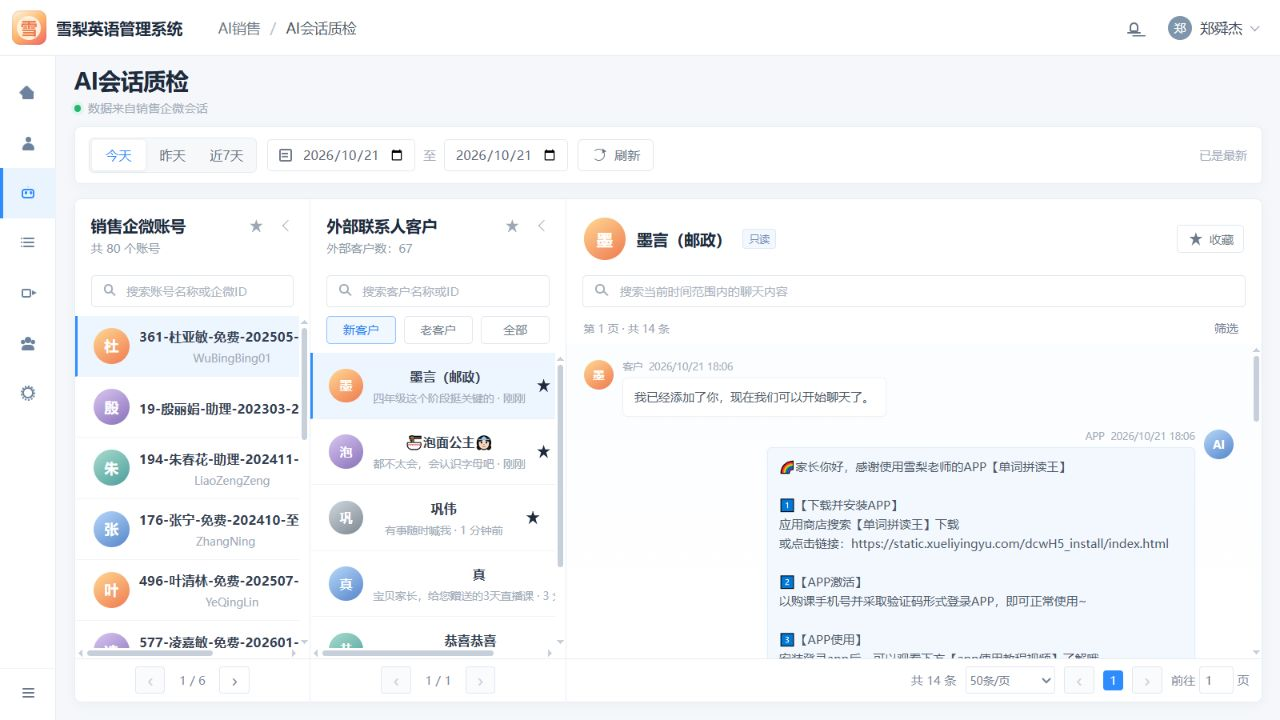
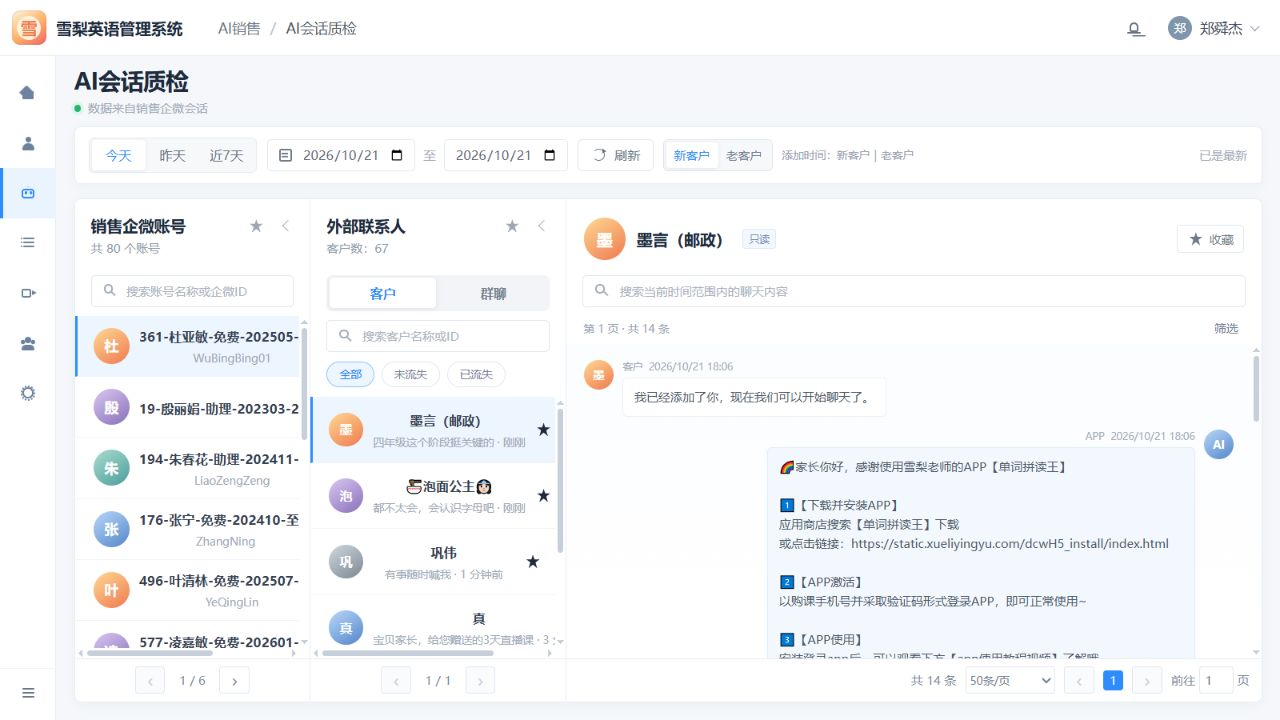
feat: add customer and group conversation filters

diff --git a/conversation-quality-prototype/app.js b/conversation-quality-prototype/app.js
@@ -17,21 +17,29 @@ const accounts = [
 ];
 
 const customers = [
-  { name: '墨言（邮政）', preview: '四年级这个阶段挺关键的', time: '刚刚', initial: '墨', tone: 'warm', type: 'new', id: 'C-1001', account: '361-杜亚敏-免费-202505-至今' },
-  { name: '🍜泡面公主👸🏻', preview: '都不太会，会认识字母吧', time: '刚刚', initial: '泡', tone: 'purple', type: 'new', id: 'C-1002', account: '361-杜亚敏-免费-202505-至今' },
-  { name: '巩伟', preview: '有事随时喊我', time: '1 分钟前', initial: '巩', tone: 'gray', type: 'new', id: 'C-1003', account: '19-殷丽娟-助理-202303-202305' },
-  { name: '真', preview: '宝贝家长，给您赠送的3天直播课', time: '3 分钟前', initial: '真', tone: 'blue', type: 'new', id: 'C-1004', account: '194-朱春花-助理-202411-至今' },
-  { name: '恭喜恭喜', preview: '看完还找不到，您截个图给我', time: '5 分钟前', initial: '恭', tone: 'mint', type: 'new', id: 'C-1005', account: '176-张宁-免费-202410-至今' },
-  { name: '袁兆腾', preview: '找到订单自行处理', time: '7 分钟前', initial: '袁', tone: 'gray', type: 'new', id: 'C-1006', account: '496-叶清林-免费-202507-至今' },
-  { name: 'baby', preview: '接下来的学习规划和雪梨老师的直播', time: '8 分钟前', initial: 'B', tone: 'warm', type: 'old', id: 'C-1007', account: '577-凌嘉敏-免费-202601-至今' },
-  { name: '🎀⃟何在王心ꦿ᭄᪲💞࿐', preview: '❤【第一课】规划！3-15岁英语进阶攻略…', time: '12 分钟前', initial: '何', tone: 'purple', type: 'old', id: 'C-1008', account: '495-胡仁龙-免费-202507-至今' },
-  { name: 'HLY', preview: '会生成计划', time: '12 分钟前', initial: 'H', tone: 'mint', type: 'old', id: 'C-1009', account: '79-廖增增-助理-202404-至今' },
-  { name: '崔の林栀鹿', preview: '👌', time: '15 分钟前', initial: '崔', tone: 'blue', type: 'old', id: 'C-1010', account: '576-李春雨-免费-202601-至今' },
-  { name: '丹', preview: '嗯嗯，没有实体教材哈‘', time: '16 分钟前', initial: '丹', tone: 'warm', type: 'old', id: 'C-1011', account: '206-徐磊-助理-202411-至今' },
-  { name: '巧霞', preview: '❤【第一课】规划！3-15岁英语进阶攻略…', time: '19 分钟前', initial: '巧', tone: 'purple', type: 'old', id: 'C-1012', account: '135-徐佳莹-免费-202409-至今' },
-  { name: '亚静', preview: '您先忙', time: '23 分钟前', initial: '亚', tone: 'gray', type: 'old', id: 'C-1013', account: '11-蔡刘伟-助理-202012-202102' },
-  { name: '大森', preview: '家长，给您赠送的3天直播课还没预约哈', time: '26 分钟前', initial: '森', tone: 'blue', type: 'old', id: 'C-1014', account: '578-孙培杰-助理-202404-至今' },
-  { name: '海风吹来', preview: '宝贝家长，给您赠送的3天直播课会讲方法', time: '29 分钟前', initial: '海', tone: 'mint', type: 'old', id: 'C-1015', account: '611-朱瑞祥-免费-202606-至今' },
+  { name: '墨言（邮政）', preview: '四年级这个阶段挺关键的', time: '刚刚', initial: '墨', tone: 'warm', age: 'new', status: 'active', id: 'C-1001', account: '361-杜亚敏-免费-202505-至今' },
+  { name: '🍜泡面公主👸🏻', preview: '都不太会，会认识字母吧', time: '刚刚', initial: '泡', tone: 'purple', age: 'new', status: 'active', id: 'C-1002', account: '361-杜亚敏-免费-202505-至今' },
+  { name: '巩伟', preview: '有事随时喊我', time: '1 分钟前', initial: '巩', tone: 'gray', age: 'new', status: 'active', id: 'C-1003', account: '19-殷丽娟-助理-202303-202305' },
+  { name: '真', preview: '宝贝家长，给您赠送的3天直播课', time: '3 分钟前', initial: '真', tone: 'blue', age: 'new', status: 'active', id: 'C-1004', account: '194-朱春花-助理-202411-至今' },
+  { name: '恭喜恭喜', preview: '看完还找不到，您截个图给我', time: '5 分钟前', initial: '恭', tone: 'mint', age: 'new', status: 'active', id: 'C-1005', account: '176-张宁-免费-202410-至今' },
+  { name: '袁兆腾', preview: '找到订单自行处理', time: '7 分钟前', initial: '袁', tone: 'gray', age: 'new', status: 'lost', id: 'C-1006', account: '496-叶清林-免费-202507-至今' },
+  { name: 'baby', preview: '接下来的学习规划和雪梨老师的直播', time: '8 分钟前', initial: 'B', tone: 'warm', age: 'old', status: 'active', id: 'C-1007', account: '577-凌嘉敏-免费-202601-至今' },
+  { name: '🎀⃟何在王心ꦿ᭄᪲💞࿐', preview: '❤【第一课】规划！3-15岁英语进阶攻略…', time: '12 分钟前', initial: '何', tone: 'purple', age: 'old', status: 'lost', id: 'C-1008', account: '495-胡仁龙-免费-202507-至今' },
+  { name: 'HLY', preview: '会生成计划', time: '12 分钟前', initial: 'H', tone: 'mint', age: 'old', status: 'active', id: 'C-1009', account: '79-廖增增-助理-202404-至今' },
+  { name: '崔の林栀鹿', preview: '👌', time: '15 分钟前', initial: '崔', tone: 'blue', age: 'old', status: 'active', id: 'C-1010', account: '576-李春雨-免费-202601-至今' },
+  { name: '丹', preview: '嗯嗯，没有实体教材哈', time: '16 分钟前', initial: '丹', tone: 'warm', age: 'old', status: 'active', id: 'C-1011', account: '206-徐磊-助理-202411-至今' },
+  { name: '巧霞', preview: '❤【第一课】规划！3-15岁英语进阶攻略…', time: '19 分钟前', initial: '巧', tone: 'purple', age: 'old', status: 'lost', id: 'C-1012', account: '135-徐佳莹-免费-202409-至今' },
+  { name: '亚静', preview: '您先忙', time: '23 分钟前', initial: '亚', tone: 'gray', age: 'old', status: 'active', id: 'C-1013', account: '11-蔡刘伟-助理-202012-202102' },
+  { name: '大森', preview: '家长，给您赠送的3天直播课还没预约哈', time: '26 分钟前', initial: '森', tone: 'blue', age: 'old', status: 'active', id: 'C-1014', account: '578-孙培杰-助理-202404-至今' },
+  { name: '海风吹来', preview: '宝贝家长，给您赠送的3天直播课会讲方法', time: '29 分钟前', initial: '海', tone: 'mint', age: 'old', status: 'lost', id: 'C-1015', account: '611-朱瑞祥-免费-202606-至今' },
+];
+
+const groups = [
+  { name: '四年级英语规划交流群', preview: '今晚直播课记得提前 10 分钟进入', time: '刚刚', initial: '群', tone: 'blue', status: 'active', id: 'G-2001' },
+  { name: '自然拼读学习打卡群', preview: '今日打卡任务已经发布', time: '2 分钟前', initial: '拼', tone: 'mint', status: 'active', id: 'G-2002' },
+  { name: '三天家长直播课 1027', preview: '课程资料已上传群文件', time: '8 分钟前', initial: '课', tone: 'warm', status: 'active', id: 'G-2003' },
+  { name: '单词拼读王体验群', preview: '感谢各位家长参与体验', time: '1 小时前', initial: '词', tone: 'purple', status: 'dissolved', id: 'G-2004' },
+  { name: '暑期英语启蒙训练营', preview: '本期训练营已结束', time: '3 天前', initial: '营', tone: 'gray', status: 'dissolved', id: 'G-2005' },
 ];
 
 const conversations = {
@@ -51,12 +59,20 @@ const conversations = {
     { role: 'customer', label: '客户', time: '2026/10/21 18:18', text: '4年级小学生' },
     { role: 'agent', label: 'AI', time: '2026/10/21 18:19', text: '四年级这个阶段挺关键的', score: '0.72' },
   ],
+  '四年级英语规划交流群': [
+    { role: 'customer', label: '群成员', time: '2026/10/21 18:01', text: '老师，今晚的直播还是七点开始吗？' },
+    { role: 'agent', label: 'AI', time: '2026/10/21 18:02', text: '是的，今晚七点准时开始，建议各位家长提前 10 分钟进入直播间～' },
+    { role: 'customer', label: '群成员', time: '2026/10/21 18:04', text: '好的，已经设置提醒了。' },
+    { role: 'agent', label: '群公告', time: '2026/10/21 18:05', text: '【今晚直播提醒】课程将在 19:00 开始，直播链接：https://xl.shirleyclass.com/s/demo' },
+  ],
 };
 
-let selectedCustomer = customers[0];
+let contactKind = 'customer';
+let contactStatus = 'all';
+let customerAge = 'new';
+let selectedContact = customers[0];
 let accountPage = 1;
 let customerPage = 1;
-let customerFilter = 'new';
 const accountPageTotal = 6;
 const customerPageSize = 6;
 
@@ -78,36 +94,76 @@ function renderAccounts() {
   $('#account-next').disabled = accountPage >= accountPageTotal;
 }
 
-function renderCustomers() {
+function getFilteredContacts() {
   const query = $('#customer-search').value.trim().toLowerCase();
-  const result = customers.filter((item) => (customerFilter === 'all' || item.type === customerFilter) && `${item.name}${item.preview}${item.id}`.toLowerCase().includes(query));
+  const source = contactKind === 'customer' ? customers : groups;
+  return source.filter((item) => {
+    const matchesKindFilter = contactKind === 'customer'
+      ? item.age === customerAge && (contactStatus === 'all' || item.status === contactStatus)
+      : contactStatus === 'all' || item.status === contactStatus;
+    return matchesKindFilter && `${item.name}${item.preview}${item.id}`.toLowerCase().includes(query);
+  });
+}
+
+function renderContactControls() {
+  const isCustomer = contactKind === 'customer';
+  $('#age-filter').classList.toggle('is-hidden', !isCustomer);
+  $('#contact-count').textContent = isCustomer ? '客户数：67' : '群聊数：12';
+  $('#customer-search').placeholder = isCustomer ? '搜索客户名称或ID' : '搜索群聊名称或ID';
+  document.querySelectorAll('.contact-kind-tab').forEach((button) => {
+    const active = button.dataset.kind === contactKind;
+    button.classList.toggle('active', active);
+    button.setAttribute('aria-selected', String(active));
+  });
+  const filters = isCustomer
+    ? [{ value: 'all', label: '全部' }, { value: 'active', label: '未流失' }, { value: 'lost', label: '已流失' }]
+    : [{ value: 'all', label: '全部' }, { value: 'dissolved', label: '已解散' }];
+  $('#contact-status-filters').setAttribute('aria-label', isCustomer ? '客户状态' : '群聊状态');
+  $('#contact-status-filters').innerHTML = filters.map((filter) => `<button class="contact-status-filter ${filter.value === contactStatus ? 'active' : ''}" role="tab" aria-selected="${filter.value === contactStatus}" data-status="${filter.value}">${filter.label}</button>`).join('');
+}
+
+function renderCustomers() {
+  const result = getFilteredContacts();
   const pageTotal = Math.max(1, Math.ceil(result.length / customerPageSize));
   if (customerPage > pageTotal) customerPage = pageTotal;
-  $('#customer-list').innerHTML = result.map((item) => `<button class="customer-item ${item.id === selectedCustomer.id ? 'active' : ''}" data-customer="${escapeHtml(item.id)}">${avatarMarkup(item)}<span class="item-copy"><span class="item-title">${escapeHtml(item.name)}</span><span class="item-subtitle">${escapeHtml(item.preview)} · ${escapeHtml(item.time)}</span></span><span class="item-star icon icon-star"></span></button>`).join('') || '<div class="empty-state">没有找到匹配客户</div>';
+  if (!result.some((item) => item.id === selectedContact.id) && result.length) selectedContact = result[0];
+  $('#customer-list').innerHTML = result.map((item) => {
+    const statusText = contactKind === 'group' && item.status === 'dissolved' ? ' · 已解散' : '';
+    return `<button class="customer-item ${item.id === selectedContact.id ? 'active' : ''}" data-contact="${escapeHtml(item.id)}">${avatarMarkup(item)}<span class="item-copy"><span class="item-title">${escapeHtml(item.name)}</span><span class="item-subtitle">${escapeHtml(item.preview)}${statusText} · ${escapeHtml(item.time)}</span></span><span class="item-star icon icon-star"></span></button>`;
+  }).join('') || `<div class="empty-state">没有找到匹配${contactKind === 'customer' ? '客户' : '群聊'}</div>`;
   $('#customer-page').textContent = `${customerPage} / ${pageTotal}`;
   $('#customer-prev').disabled = customerPage <= 1;
   $('#customer-next').disabled = customerPage >= pageTotal;
+  $('#customer-prev').setAttribute('aria-label', `上一页${contactKind === 'customer' ? '客户' : '群聊'}`);
+  $('#customer-next').setAttribute('aria-label', `下一页${contactKind === 'customer' ? '客户' : '群聊'}`);
 }
 
 function renderConversation() {
   const avatarNode = $('#conversation-avatar');
-  avatarNode.className = `avatar avatar-large ${selectedCustomer.tone}`;
-  avatarNode.textContent = selectedCustomer.initial;
-  $('#conversation-title').textContent = selectedCustomer.name;
+  avatarNode.className = `avatar avatar-large ${selectedContact.tone}`;
+  avatarNode.textContent = selectedContact.initial;
+  $('#conversation-title').textContent = selectedContact.name;
   const search = $('#message-search').value.trim().toLowerCase();
-  const source = conversations[selectedCustomer.name] || [
-    { role: 'customer', label: '客户', time: '2026/10/21 18:06', text: selectedCustomer.preview },
+  const source = conversations[selectedContact.name] || [
+    { role: 'customer', label: contactKind === 'customer' ? '客户' : '群成员', time: '2026/10/21 18:06', text: selectedContact.preview },
     { role: 'agent', label: 'AI', time: '2026/10/21 18:07', text: '家长好～我是接下来负责咱们孩子英语学习的班主任老师' },
     { role: 'agent', label: 'AI', time: '2026/10/21 18:08', text: '接下来的学习规划和雪梨老师的直播，都会根据孩子的情况安排～' },
   ];
   const result = source.filter((message) => message.text.toLowerCase().includes(search));
-  $('#messages').innerHTML = result.map((message) => `<article class="message-row ${message.role}">${avatarMarkup({ initial: message.role === 'customer' ? selectedCustomer.initial : 'AI', tone: message.role === 'customer' ? selectedCustomer.tone : 'blue' })}<div class="message-body"><div class="message-meta"><span>${escapeHtml(message.label)}</span><span>${escapeHtml(message.time)}</span></div><div class="message-bubble">${escapeHtml(message.text)}</div>${message.score ? `<span class="message-score">${escapeHtml(message.score)}</span>` : ''}</div></article>`).join('') || '<div class="empty-state">当前范围内没有匹配的聊天内容</div>';
+  $('#messages').innerHTML = result.map((message) => `<article class="message-row ${message.role}">${avatarMarkup({ initial: message.role === 'customer' ? selectedContact.initial : 'AI', tone: message.role === 'customer' ? selectedContact.tone : 'blue' })}<div class="message-body"><div class="message-meta"><span>${escapeHtml(message.label)}</span><span>${escapeHtml(message.time)}</span></div><div class="message-bubble">${escapeHtml(message.text)}</div>${message.score ? `<span class="message-score">${escapeHtml(message.score)}</span>` : ''}</div></article>`).join('') || '<div class="empty-state">当前范围内没有匹配的聊天内容</div>';
   $('#message-page-label').textContent = `第 1 页 · 共 ${source.length} 条`;
   $('#message-count').textContent = `共 ${source.length} 条`;
 }
 
-function selectCustomer(id) {
-  selectedCustomer = customers.find((item) => item.id === id) || selectedCustomer;
+function selectContact(id) {
+  const source = contactKind === 'customer' ? customers : groups;
+  selectedContact = source.find((item) => item.id === id) || selectedContact;
+  renderCustomers();
+  renderConversation();
+}
+
+function refreshContactView() {
+  renderContactControls();
   renderCustomers();
   renderConversation();
 }
@@ -126,15 +182,42 @@ document.addEventListener('click', (event) => {
     toast(`已切换至${rangeButton.textContent}`);
     return;
   }
-  const customerFilterButton = event.target.closest('.customer-filter');
-  if (customerFilterButton) {
-    customerFilter = customerFilterButton.dataset.filter;
-    document.querySelectorAll('.customer-filter').forEach((button) => button.classList.toggle('active', button === customerFilterButton));
+  const contactKindButton = event.target.closest('.contact-kind-tab');
+  if (contactKindButton) {
+    contactKind = contactKindButton.dataset.kind;
+    contactStatus = 'all';
+    customerPage = 1;
+    $('#customer-search').value = '';
+    selectedContact = (contactKind === 'customer' ? customers : groups)[0];
+    refreshContactView();
+    toast(`已切换至${contactKind === 'customer' ? '客户' : '群聊'}`);
+    return;
+  }
+  const ageFilterButton = event.target.closest('.age-filter-button');
+  if (ageFilterButton) {
+    customerAge = ageFilterButton.dataset.age;
+    customerPage = 1;
+    document.querySelectorAll('.age-filter-button').forEach((button) => {
+      const active = button === ageFilterButton;
+      button.classList.toggle('active', active);
+      button.setAttribute('aria-selected', String(active));
+    });
     renderCustomers();
+    renderConversation();
+    toast(`已筛选${ageFilterButton.textContent}`);
+    return;
+  }
+  const statusFilterButton = event.target.closest('.contact-status-filter');
+  if (statusFilterButton) {
+    contactStatus = statusFilterButton.dataset.status;
+    customerPage = 1;
+    renderContactControls();
+    renderCustomers();
+    renderConversation();
     return;
   }
   const customerButton = event.target.closest('.customer-item');
-  if (customerButton) { selectCustomer(customerButton.dataset.customer); return; }
+  if (customerButton) { selectContact(customerButton.dataset.contact); return; }
   const accountButton = event.target.closest('.account-item');
   if (accountButton) {
     document.querySelectorAll('.account-item').forEach((button) => button.classList.toggle('active', button === accountButton));
@@ -157,13 +240,12 @@ document.addEventListener('click', (event) => {
 });
 
 $('#account-search').addEventListener('input', renderAccounts);
-$('#customer-search').addEventListener('input', renderCustomers);
+$('#customer-search').addEventListener('input', () => { customerPage = 1; renderCustomers(); renderConversation(); });
 $('#message-search').addEventListener('input', renderConversation);
 $('#account-prev').addEventListener('click', () => { if (accountPage > 1) { accountPage -= 1; renderAccounts(); toast(`已切换至第 ${accountPage} 页账号`); } });
 $('#account-next').addEventListener('click', () => { if (accountPage < accountPageTotal) { accountPage += 1; renderAccounts(); toast(`已切换至第 ${accountPage} 页账号`); } });
-$('#customer-prev').addEventListener('click', () => { if (customerPage > 1) { customerPage -= 1; renderCustomers(); toast(`已切换至第 ${customerPage} 页客户`); } });
-$('#customer-next').addEventListener('click', () => { const query = $('#customer-search').value.trim().toLowerCase(); const matching = customers.filter((item) => (customerFilter === 'all' || item.type === customerFilter) && `${item.name}${item.preview}${item.id}`.toLowerCase().includes(query)); const pageTotal = Math.max(1, Math.ceil(matching.length / customerPageSize)); if (customerPage < pageTotal) { customerPage += 1; renderCustomers(); toast(`已切换至第 ${customerPage} 页客户`); } });
+$('#customer-prev').addEventListener('click', () => { if (customerPage > 1) { customerPage -= 1; renderCustomers(); toast(`已切换至第 ${customerPage} 页${contactKind === 'customer' ? '客户' : '群聊'}`); } });
+$('#customer-next').addEventListener('click', () => { const pageTotal = Math.max(1, Math.ceil(getFilteredContacts().length / customerPageSize)); if (customerPage < pageTotal) { customerPage += 1; renderCustomers(); toast(`已切换至第 ${customerPage} 页${contactKind === 'customer' ? '客户' : '群聊'}`); } });
 
 renderAccounts();
-renderCustomers();
-renderConversation();
+refreshContactView();

diff --git a/conversation-quality-prototype/styles.css b/conversation-quality-prototype/styles.css
@@ -60,6 +60,12 @@ button:disabled { cursor: default; }
 .date-separator { margin: 0 -2px; color: #a0aaba; font-size: 13px; }
 .refresh-button { display: inline-flex; align-items: center; gap: 7px; height: 32px; padding: 0 12px; border: 1px solid #dfe5eb; border-radius: 5px; color: #687486; font-size: 13px; }
 .refresh-button:hover { color: var(--primary); border-color: #b9d8ff; background: #f5faff; }
+.age-filter { display: flex; align-items: center; gap: 9px; min-width: 0; }
+.age-filter.is-hidden { display: none; }
+.age-filter-buttons { display: inline-flex; align-items: center; padding: 2px; border: 1px solid #e1e6ee; border-radius: 5px; background: #f7f8fa; }
+.age-filter-button { min-width: 52px; height: 26px; border-radius: 3px; color: #728094; font-size: 12px; }
+.age-filter-button.active { color: var(--primary); background: #fff; box-shadow: 0 1px 4px rgba(53, 92, 128, .12); }
+.age-filter-note { color: #9aa5b3; font-size: 11px; white-space: nowrap; }
 .refresh-state { margin-left: auto; color: #a2adbb; font-size: 12px; }
 
 .workspace { --workspace-columns: clamp(235px, 18vw, 320px) clamp(250px, 20vw, 360px) minmax(0, 1fr); flex: 1; display: grid; grid-template-columns: var(--workspace-columns); grid-template-rows: minmax(0, 1fr) 43px; min-height: 0; overflow: hidden; border: 1px solid var(--line); border-radius: 7px; background: var(--panel); box-shadow: var(--shadow); }
@@ -91,9 +97,12 @@ button:disabled { cursor: default; }
 .item-subtitle { overflow: hidden; margin-top: 4px; color: #a0aab8; font-size: 11px; text-overflow: ellipsis; white-space: nowrap; }
 .item-star { flex: 0 0 auto; color: #a4afbd; }
 .item-star.is-favorite { color: #f0b53d; }
-.customer-filters { display: grid; grid-template-columns: repeat(3, 1fr); gap: 8px; margin: 0 16px 9px; }
-.customer-filter { height: 28px; border: 1px solid #e1e6ee; border-radius: 4px; color: #6f7b8b; background: #fff; font-size: 12px; }
-.customer-filter.active { border-color: #8fc2ff; color: #2081f3; background: #f0f7ff; }
+.contact-kind-tabs { display: grid; grid-template-columns: repeat(2, 1fr); gap: 4px; margin: 0 16px 9px; padding: 3px; border-radius: 6px; background: #f2f4f7; }
+.contact-kind-tab { height: 30px; border-radius: 4px; color: #707c8e; font-size: 13px; font-weight: 600; }
+.contact-kind-tab.active { color: var(--primary); background: #fff; box-shadow: 0 1px 5px rgba(48, 72, 98, .12); }
+.contact-status-filters { display: flex; align-items: center; gap: 7px; min-height: 27px; margin: 0 16px 9px; }
+.contact-status-filter { height: 25px; padding: 0 12px; border: 1px solid #e1e7ee; border-radius: 999px; color: #748093; background: #fff; font-size: 11px; }
+.contact-status-filter.active { border-color: #8fc2ff; color: #2081f3; background: #edf6ff; }
 .customer-item { min-height: 66px; }
 .customer-item .avatar { width: 34px; height: 34px; font-size: 13px; }
 .customer-item .item-title { font-size: 13px; }
@@ -174,4 +183,5 @@ button:disabled { cursor: default; }
   .workspace { --workspace-columns: clamp(220px, 25vw, 280px) clamp(235px, 28vw, 310px) minmax(0, 1fr); }
   .footer-pagination { gap: 5px; padding: 0 8px; }
   .footer-pagination-right label { display: none; }
+  .age-filter-note { display: none; }
 }

diff --git a/conversation-quality-prototype/index.html b/conversation-quality-prototype/index.html
@@ -56,6 +56,13 @@
           <span class="date-separator">至</span>
           <label class="date-input"><input id="end-date" type="date" value="2026-10-21" aria-label="结束日期" /></label>
           <button class="refresh-button" id="refresh-button"><span class="icon icon-refresh"></span><span>刷新</span></button>
+          <div class="age-filter" id="age-filter">
+            <div class="age-filter-buttons" role="tablist" aria-label="客户添加时间">
+              <button class="age-filter-button active" role="tab" aria-selected="true" data-age="new">新客户</button>
+              <button class="age-filter-button" role="tab" aria-selected="false" data-age="old">老客户</button>
+            </div>
+            <span class="age-filter-note">添加时间：新客户｜老客户</span>
+          </div>
           <span class="refresh-state" id="refresh-state" role="status">已是最新</span>
         </section>
 
@@ -75,17 +82,17 @@
           <section class="panel customer-panel">
             <div class="panel-header">
               <div>
-                <h2>外部联系人客户</h2>
-                <p>外部客户数：67</p>
+                <h2>外部联系人</h2>
+                <p id="contact-count">客户数：67</p>
               </div>
               <div class="panel-tools"><button class="plain-icon" aria-label="收藏客户" title="收藏客户"><span class="icon icon-star"></span></button><button class="plain-icon" aria-label="收起客户栏" title="收起客户栏"><span class="icon icon-chevron-left"></span></button></div>
             </div>
-            <label class="search-box"><span class="icon icon-search"></span><input id="customer-search" placeholder="搜索客户名称或ID" /></label>
-            <div class="customer-filters" role="tablist" aria-label="客户类型">
-              <button class="customer-filter active" data-filter="new">新客户</button>
-              <button class="customer-filter" data-filter="old">老客户</button>
-              <button class="customer-filter" data-filter="all">全部</button>
+            <div class="contact-kind-tabs" role="tablist" aria-label="外部联系人类型">
+              <button class="contact-kind-tab active" role="tab" aria-selected="true" data-kind="customer">客户</button>
+              <button class="contact-kind-tab" role="tab" aria-selected="false" data-kind="group">群聊</button>
             </div>
+            <label class="search-box"><span class="icon icon-search"></span><input id="customer-search" placeholder="搜索客户名称或ID" /></label>
+            <div class="contact-status-filters" id="contact-status-filters" role="tablist" aria-label="客户状态"></div>
             <div class="list-scroll customer-list" id="customer-list"></div>
           </section>
 

diff --git a/conversation-quality-prototype/需求文档/AI会话质检需求文档.md b/conversation-quality-prototype/需求文档/AI会话质检需求文档.md
@@ -5,9 +5,9 @@
 | 模块 | 需求说明 | 原型图 |
 |---|---|---|
 | 页面框架 | 提供与雪梨英语管理系统一致的 AI 会话质检工作台。<br>• 顶部展示系统名称、当前位置、通知和当前用户。<br>• 左侧提供主导航并高亮“AI 会话质检”。 | <img src="./images/AI会话质检-基线原型.jpg" width="320" alt="AI会话质检基线原型"> |
-| 时间筛选 | 支持按指定时间范围查看销售企微会话。<br>• 提供今天、昨天、近 7 天快捷选项。<br>• 支持设置开始和结束日期，并通过刷新更新结果状态。 | <img src="./images/AI会话质检-基线原型.jpg" width="320" alt="时间筛选原型"> |
+| 时间与添加时间筛选 | 支持按指定时间范围和客户添加时间查看销售企微会话。<br>• 提供今天、昨天、近 7 天快捷选项，支持设置开始和结束日期并刷新结果。<br>• 选择客户时，在刷新按钮旁提供新客户、老客户筛选及“添加时间”说明；选择群聊时不显示该条件。 | <img src="./images/AI会话质检-基线原型.jpg" width="320" alt="时间与添加时间筛选原型"> |
 | 销售企微账号 | 展示销售企微账号列表，并支持快速定位目标账号。<br>• 显示账号总数、头像、账号名称和企微 ID。<br>• 支持搜索、收藏、选择账号和列表翻页。 | <img src="./images/AI会话质检-基线原型.jpg" width="320" alt="销售企微账号原型"> |
-| 外部联系人客户 | 展示当前销售账号关联的外部联系人客户。<br>• 显示客户总数、头像、名称、最近消息和更新时间。<br>• 支持搜索、收藏、客户类型筛选、选择客户和列表翻页。 | <img src="./images/AI会话质检-基线原型.jpg" width="320" alt="外部联系人客户原型"> |
+| 外部联系人 | 按客户和群聊两个大类展示当前销售账号关联的外部联系对象。<br>• 客户分类提供全部、未流失、已流失状态筛选；群聊分类提供全部、已解散状态筛选。<br>• 列表显示对应总数、头像、名称、最近消息和更新时间，并支持搜索、收藏、选择和翻页。 | <img src="./images/AI会话质检-基线原型.jpg" width="320" alt="外部联系人原型"> |
 | 会话信息栏 | 展示当前客户信息并提供会话内容检索。<br>• 显示客户头像、名称、只读状态和收藏操作。<br>• 支持搜索当前时间范围内的聊天内容，并展示消息总数。 | <img src="./images/AI会话质检-基线原型.jpg" width="320" alt="会话信息栏原型"> |
 | 只读会话 | 以只读方式还原客户与销售侧的历史聊天记录。<br>• 客户消息在左侧展示，销售、AI 或 APP 消息在右侧展示。<br>• 每条消息显示发送方、来源、时间和消息内容，不提供输入或发送能力。 | <img src="./images/AI会话质检-基线原型.jpg" width="320" alt="只读会话原型"> |
 | 会话内容展示 | 支持在消息流中清晰展示不同类型和长度的内容。<br>• 文本保留换行、链接、表情和长内容结构。<br>• 消息区域独立滚动，当前选中客户的会话保持连续可读。 | <img src="./images/AI会话质检-基线原型.jpg" width="320" alt="会话内容展示原型"> |
